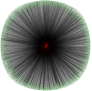
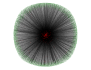
lazy loading commented out, images fixed

diff --git a/index.html b/index.html
@@ -47,7 +47,7 @@
     <p class="header-authors">Abdallah Abuhashem, Stephanie Niu, and Michelle Park</p>
     <div class="spacer"></div>
     <div class="figure-container">
-      <img class="figure lazy" src="images/iris_small.png" data-src="images/iris.png"></img>
+      <img class="figure" src="images/iris.png"></img>
       <br>
       <p class="caption">Network of Russian Twitter bots (red) mentioning real accounts (green) and one other from 2014-2017.</p>
     </div>
@@ -367,7 +367,6 @@
     <script src="draw_scatter.js"></script>
     <script src="draw_timeseries.js"></script>
     <script src="scrollama_mod.js"></script>
-    <!--<script defer src="rehydrate_tweets.js"></script>-->
     <script>
     function topFunction() {
       document.body.scrollTop = 0; // For Safari
@@ -410,5 +409,6 @@
         }
       });
     </script>
+    <script defer src="rehydrate_tweets.js"></script>
   </body>
 </html>
